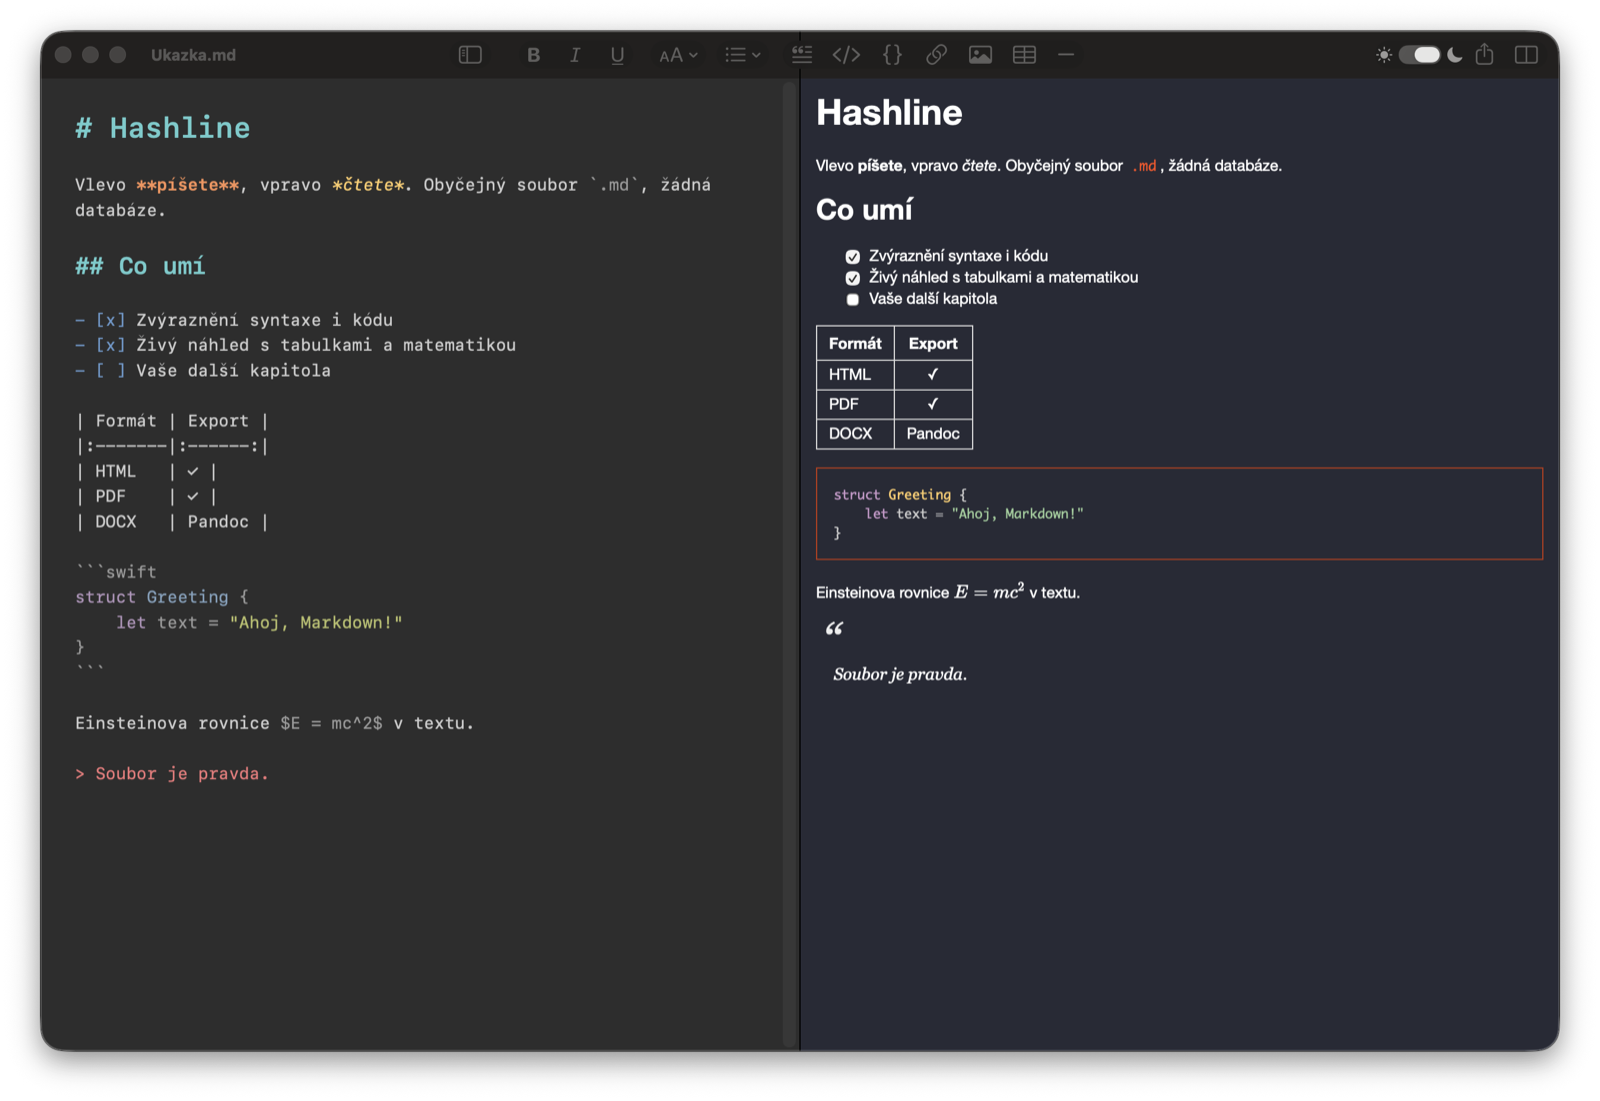
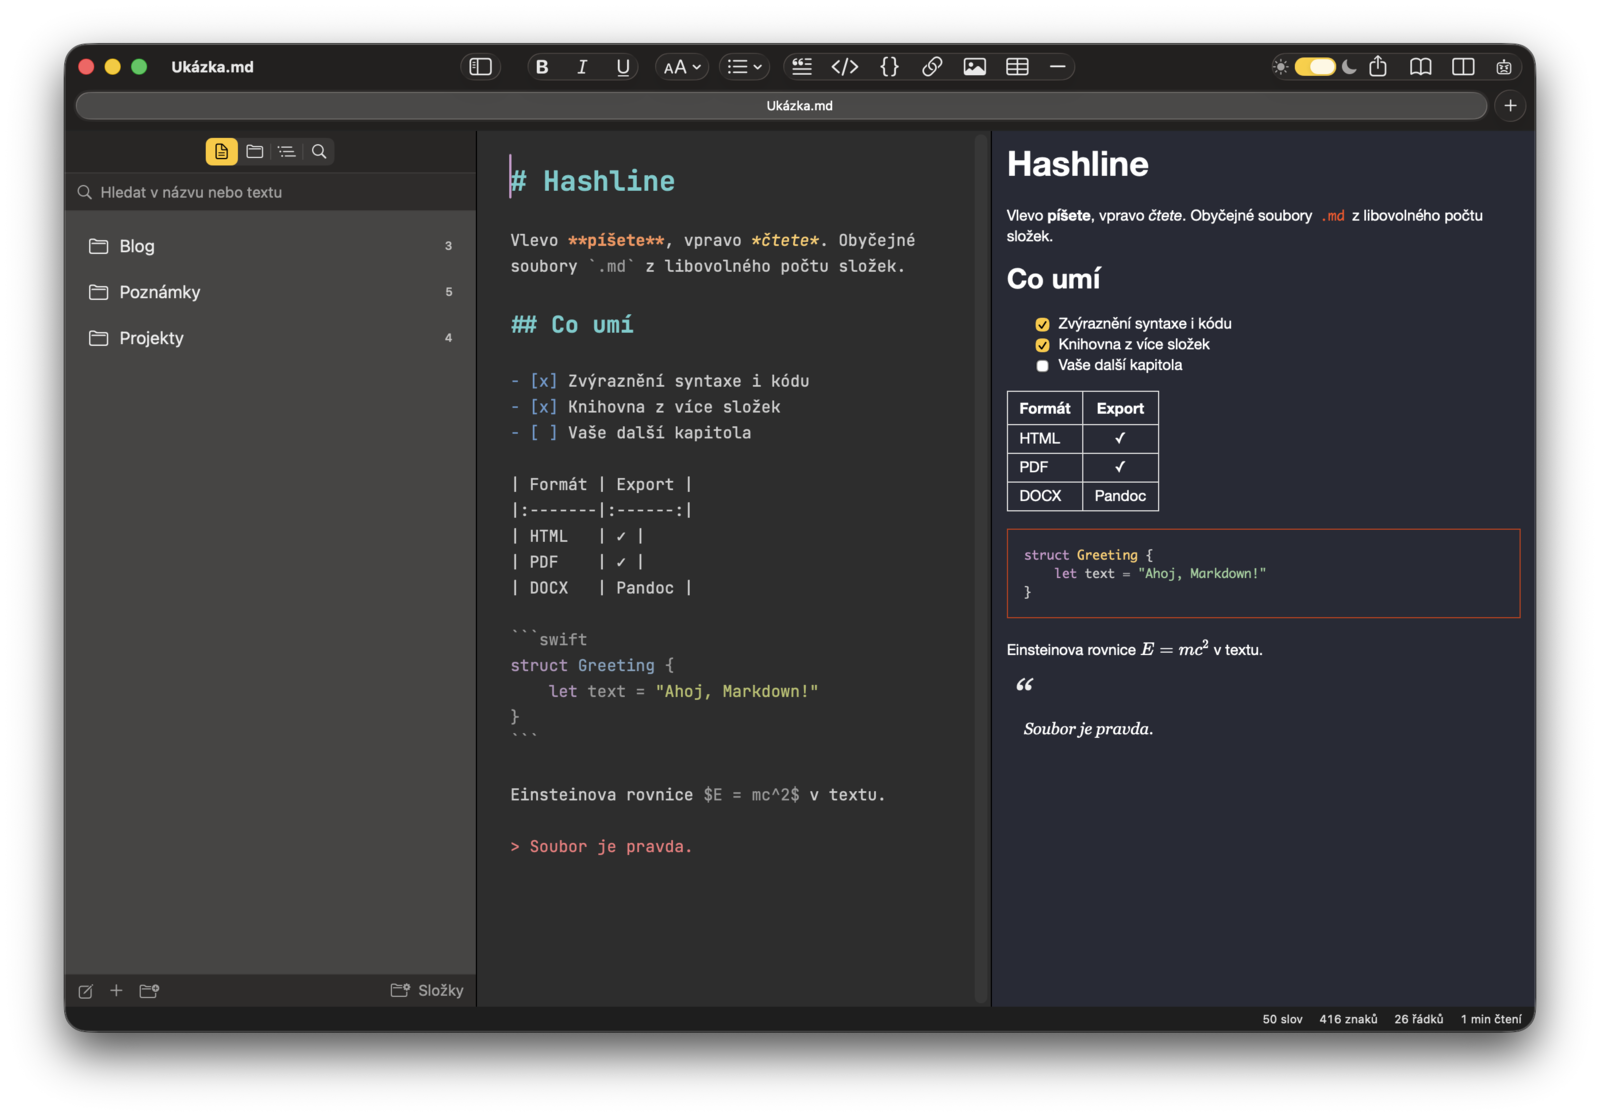
README: screenshots of 0.3.4 with multiple library folders

diff --git a/README.md b/README.md
@@ -37,7 +37,7 @@
 
 <picture>
   <source media="(prefers-color-scheme: dark)" srcset="docs/images/screenshot-dark.png">
-  <img src="docs/images/screenshot-light.png" alt="Hashline: vlevo zdroj Markdownu se zvýrazněnou syntaxí, vpravo vykreslený náhled s tabulkou, kódem a matematikou">
+  <img src="docs/images/screenshot-light.png" alt="Hashline: vlevo knihovna se třemi složkami, uprostřed zdroj Markdownu se zvýrazněnou syntaxí, vpravo vykreslený náhled s tabulkou, kódem a matematikou">
 </picture>
 
 ## Obsah
@@ -101,6 +101,15 @@ Když už aplikaci máte v Aplikacích a macOS ji blokuje, pomůže i `xattr -dr
 | 🍎 **macOS** | Quick Look pro `.md` ve Finderu, Služby („Nový dokument Hashline s výběrem“), Sdílení, čeština a angličtina, přístupnost |
 | 🤖 **Asistent AI** | Volitelný, ve výchozím stavu vypnutý (Nastavení ▸ Obecné ▸ Pokročilé). Chat u každého dokumentu s Claude, OpenAI nebo DeepSeek na vlastní klíč API (uložený jen v Klíčence), nebo s lokálním modelem v Ollamě či LM Studiu, kdy text neopustí Mac. Na požádání rovnou upravuje text, každý pokyn jde vrátit jedním ⌘Z, volitelná rešerše na webu se zdroji. Vidí jen svůj dokument. |
 | 🔒 **Bezpečnost** | App Sandbox, CSP, allow-list sanitizace HTML, test proti 77 XSS vektorům, ochrana proti nepřátelským dokumentům |
+
+### Knihovna z více složek
+
+Knihovna ukazuje dokumenty z libovolného počtu složek: poznámky na iCloud Drive, projekty na Synology, blog v Dokumentech. Každá složka je v knihovně nahoře pod svým jménem a pod ní její podsložky a soubory. Složky se přidávají a odebírají v **Nastavení ▸ Knihovna**, kam vede i tlačítko **Složky** ve spodní liště knihovny. Odebrání složky z knihovny nic nemaže z disku.
+
+<picture>
+  <source media="(prefers-color-scheme: dark)" srcset="docs/images/library-settings-dark.png">
+  <img src="docs/images/library-settings-light.png" width="450" alt="Nastavení ▸ Knihovna: seznam složek Poznámky, Projekty a Blog s tlačítky pro přidání a odebrání">
+</picture>
 
 ## Technologie
 
